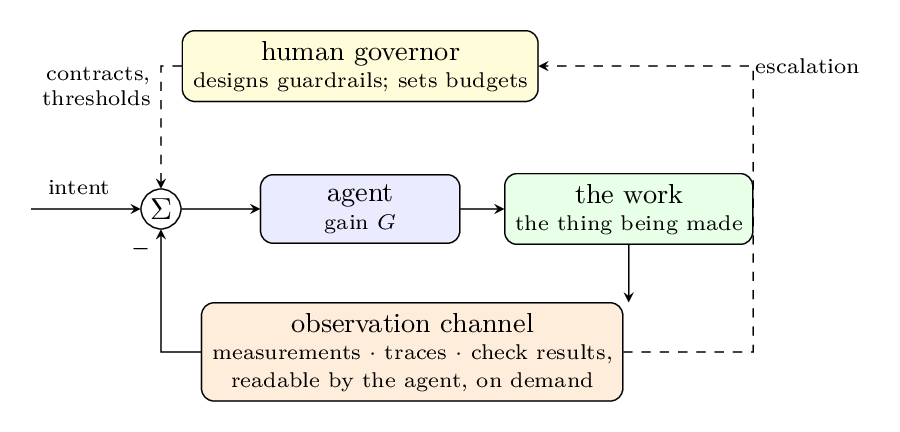
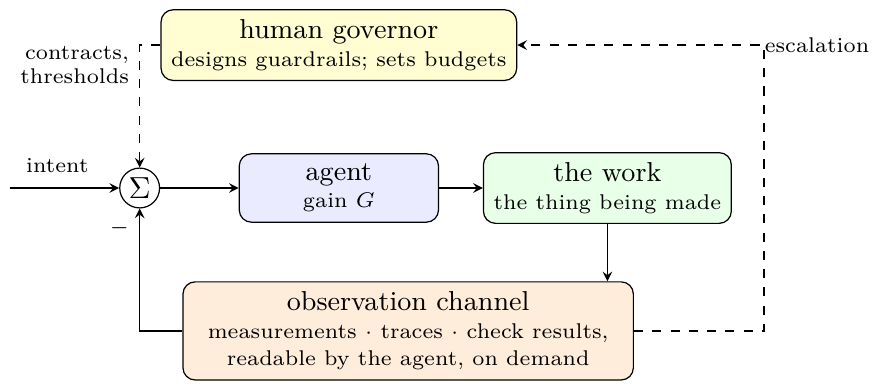
figure: the loop's work→observation arrow lands on the box — channel widened under the work
Claude-Session: https://claude.ai/code/session_01JJ2GUqRNyCDekU7KdwAPUt

diff --git a/paper/shared_substrate.tex b/paper/shared_substrate.tex
@@ -1338,7 +1338,7 @@ it.
 \draw[sig] (cmp) -- (agent);
 \draw[sig] (agent) -- (work);
 % feedback path
-\node[blk,fill=orange!14,minimum width=4.8cm] (obs) at (2.9,-1.65)
+\node[blk,fill=orange!14,minimum width=5.2cm] (obs) at (3.1,-1.65)
   {observation channel\\[-2pt]\scriptsize measurements $\cdot$ traces $\cdot$ check results,\\[-2pt]\scriptsize readable by the agent, on demand};
 \draw[sig] (work.south) -- (obs.north -| work.south);
 \draw[sig] (obs.west) -| (cmp.south)
